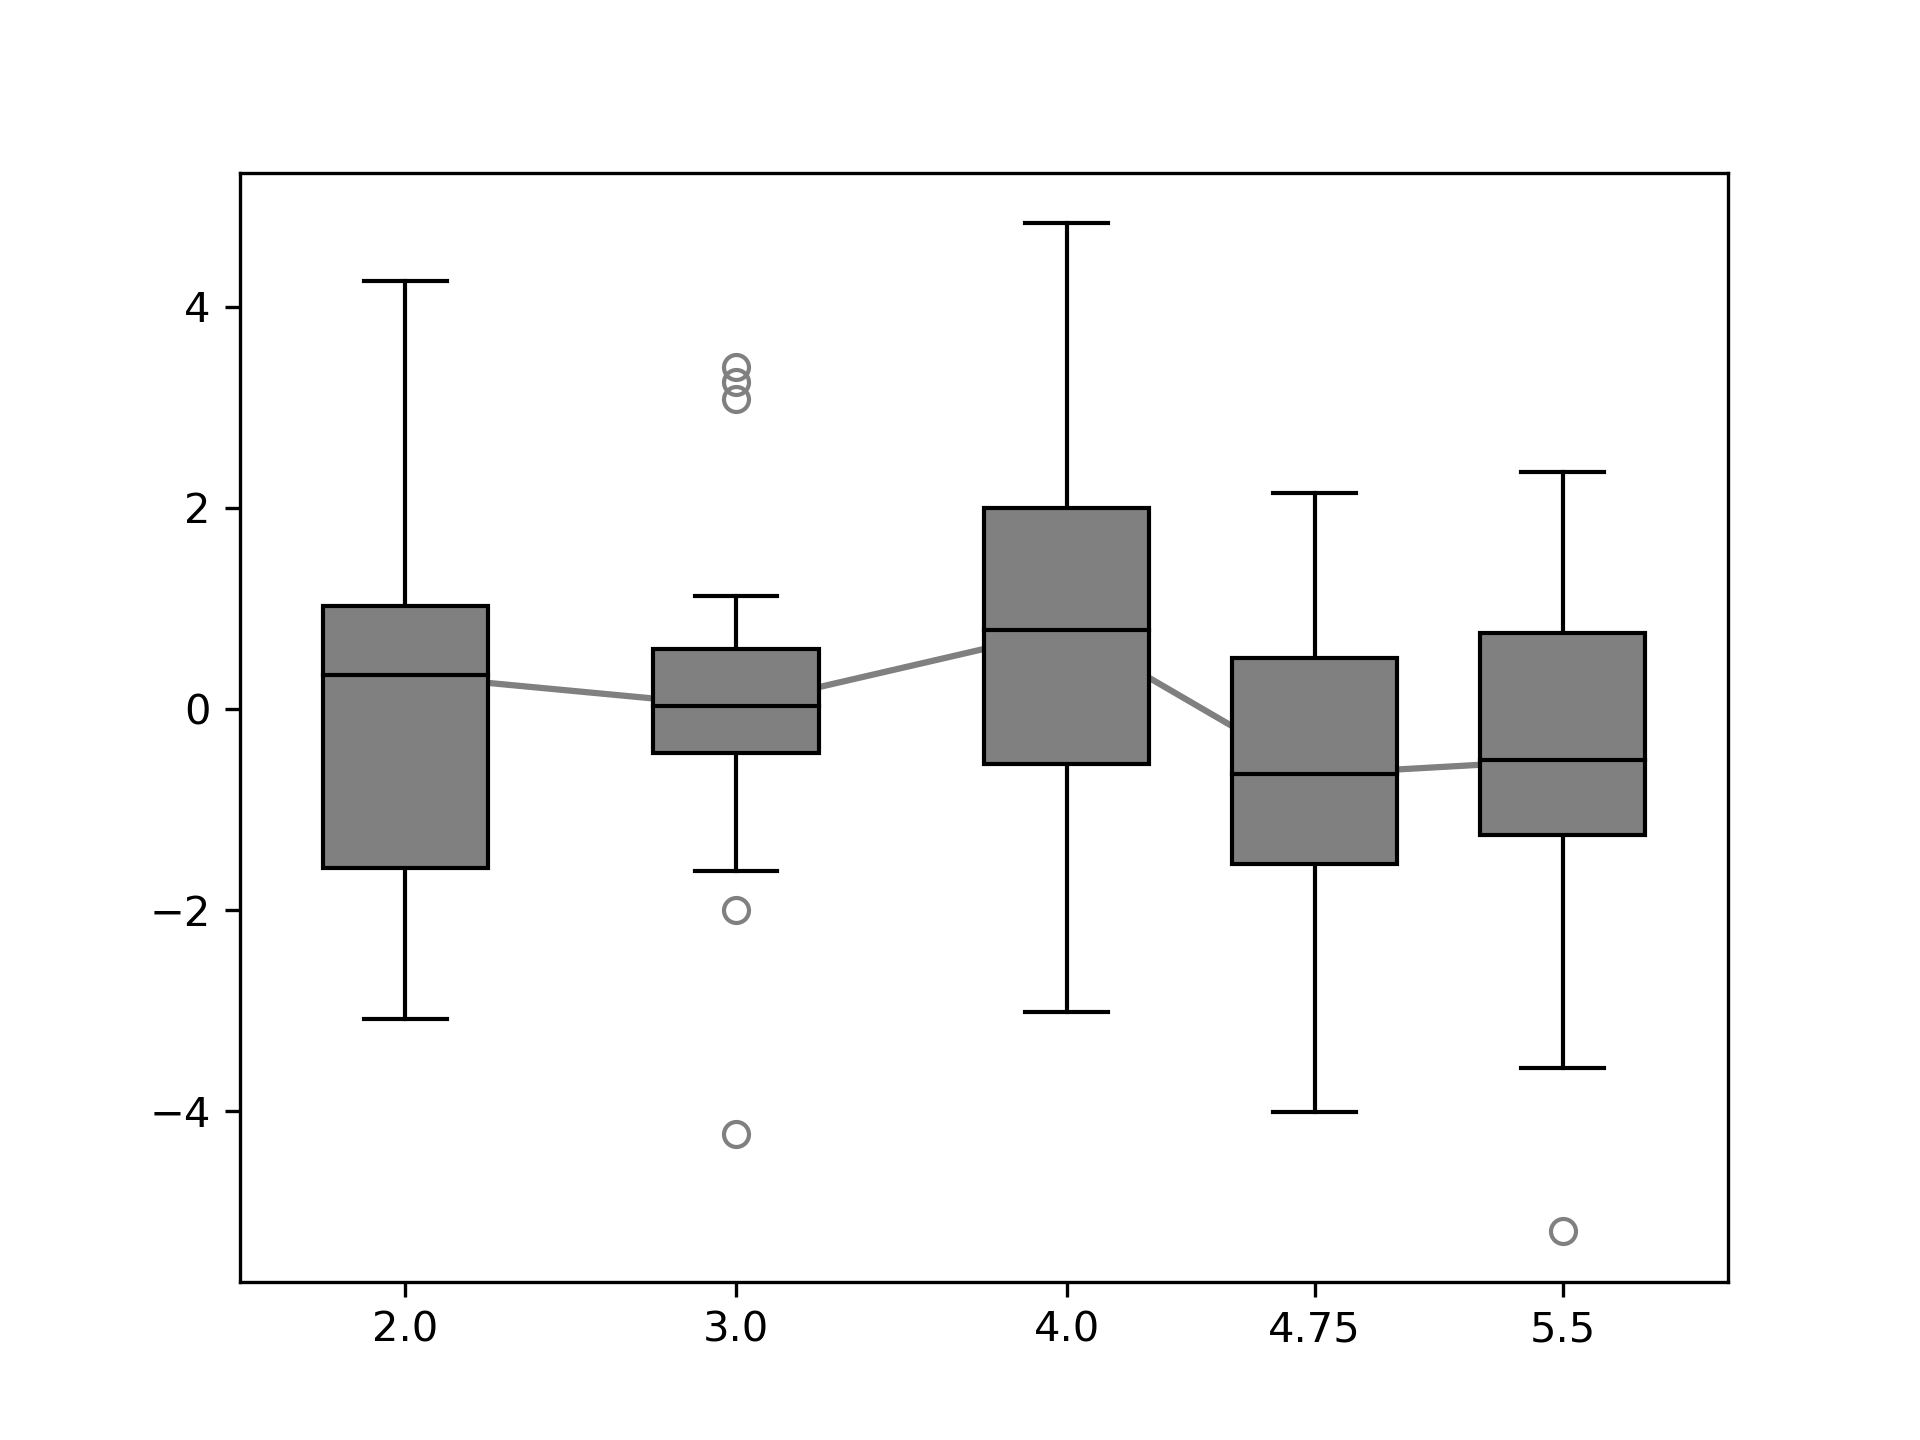
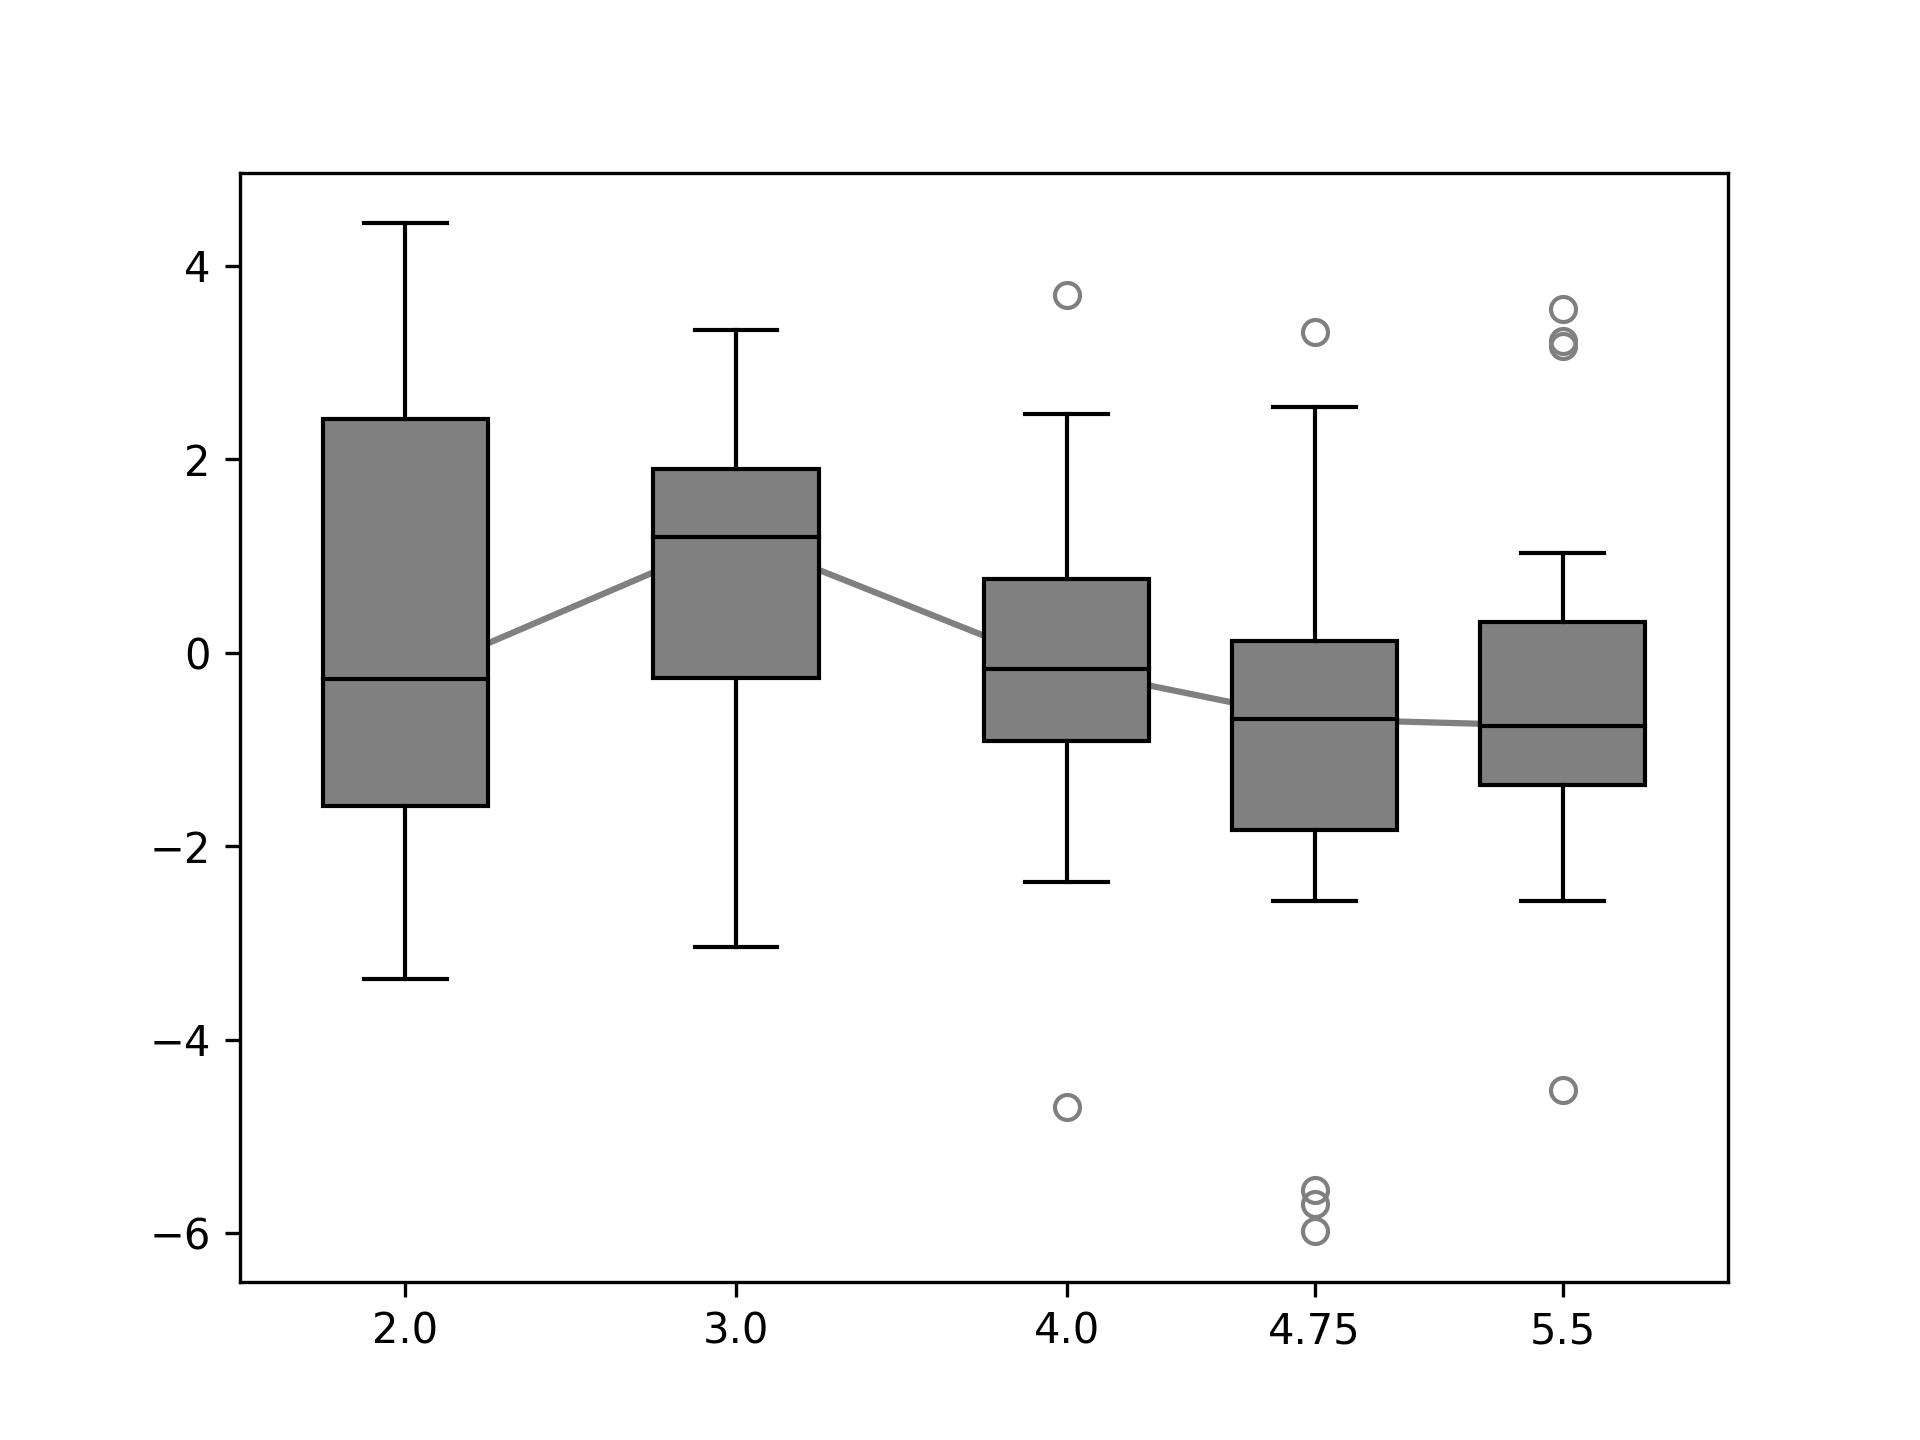
fix #486

diff --git a/aopy/visualization/base.py b/aopy/visualization/base.py
@@ -1239,24 +1239,55 @@ def plot_boxplots(data, plt_xaxis, trendline=True, facecolor='gray', linecolor='
     '''
     This function creates a boxplot for each column of input data. If the input data has NaNs, they are ignored.
 
-    .. image:: _images/boxplot_example.png
-
     Args:
-        data (ncol): Data to plot. A different boxplot is created for each entry of the list.
+        data (ncol list or (m, ncol) array): Data to plot. A different boxplot is created for each entry of the list.
         plt_xaxis (ncol): X-axis locations or labels to plot the boxplot of each column
         trendline (bool): If a line should be used to connect boxplots
         facecolor (color): Color of the box faces. Can be any input that pyplot interprets as a color.
         linecolor (color): Color of the connecting lines.
         ax (axes handle): Axes to plot
+
+    Examples:
+
+        Using a rectangular array and numeric x-axis points.
+
+        .. code-block:: python
+            
+            data = np.random.normal(0, 2, size=(20, 5))
+            xaxis_pts = np.array([2,3,4,4.75,5.5])
+            fig, ax = plt.subplots(1,1)
+            plot_boxplots(data, xaxis_pts, ax=ax)
+
+        .. image:: _images/boxplot_example.png
+
+        Using a list of nonrectangular arrays with categorical x-axis points.
+
+        .. code-block:: python
+        
+            data = [np.random.normal(0, 2, size=(10)), np.random.normal(0, 1, size=(20))]
+            xaxis_pts = ['foo', 'bar']
+            fig, ax = plt.subplots(1,1)
+            plot_boxplots(data, xaxis_pts, ax=ax)
+
+        .. image:: _images/boxplot_example_nonrectangular.png
+
     '''
     if ax is None:
         ax = plt.gca()
-        
-    if np.ndim(data) > 1:
+
+    # If data is 2D, turn the columns into lists
+    if hasattr(data, 'ndim') and data.ndim == 2:
         data = [data[:,i] for i in range(data.shape[1])]
 
+    # If data is a single column, make it a list
+    try:
+        int(data[0])
+        data = [data]
+    except:
+        pass
+        
     if trendline:
-        ax.plot(plt_xaxis, np.nanmedian(data, axis=1), color=facecolor)
+        ax.plot(plt_xaxis, [np.nanmedian(data[i]) for i in range(len(data))], color=facecolor)
     
     for featidx, ifeat in enumerate(plt_xaxis):
         temp_data = data[featidx]

diff --git a/tests/test_visualization.py b/tests/test_visualization.py
@@ -239,12 +239,21 @@ class CurveFittingTests(unittest.TestCase):
         plot_tuning_curves(fit_params, data, targets, n_subplot_cols=4, ax=ax)
         
     def test_plot_boxplots(self):
+        # Rectangular array
         data = np.random.normal(0, 2, size=(20, 5))
         xaxis_pts = np.array([2,3,4,4.75,5.5])
         fig, ax = plt.subplots(1,1)
         plot_boxplots(data, xaxis_pts, ax=ax)
         filename = 'boxplot_example.png'
-        savefig(write_dir, filename)
+        savefig(docs_dir, filename)
+
+        # List of nonrectangular arrays
+        data = [np.random.normal(0, 2, size=(10)), np.random.normal(0, 1, size=(20))]
+        xaxis_pts = ['foo', 'bar']
+        fig, ax = plt.subplots(1,1)
+        plot_boxplots(data, xaxis_pts, ax=ax)
+        filename = 'boxplot_example_nonrectangular.png'
+        savefig(docs_dir, filename)
 
 class AnimationTests(unittest.TestCase):
 
